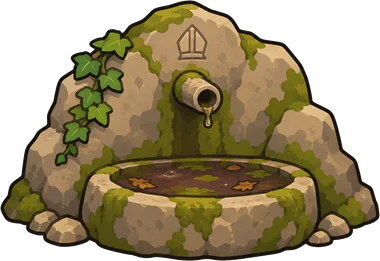
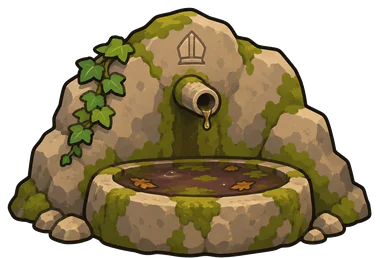
Font del Bisbe: transició amb l'efecte d'ones de la Bassadòria, aigua neta animada (gotes, anells, esquitxos i reflexos); mateix retall als dos gràfics
Claude-Session: https://claude.ai/code/session_01Lxfm6YSSDLi4GYSBQ6SeDm

diff --git a/js/zones/nord.js b/js/zones/nord.js
@@ -1369,6 +1369,7 @@ class ZonaBosc extends ZonaBase {
         this.terra('pedra', 780, 520, 260, 230);         // clariana de pedra de la font
 
         // Font del Bisbe (missió de la font)
+        this.aiguaFont = null; this.transFont = false;          // (l'escena es reaprofita: res de la visita anterior)
         const fontSJ = this.fontImg = this.posar(Estat.flag('fontNeta') ? 'font_sj_neta' : 'font_sj', 910, 610, { col: { w: 150, h: 50 } });
         const puntFont = this.interactiu(910, 625, RADI_GRAN * 1.5, DIALEGS.fontSJ, { altura: 170 });
         this.brilloImatge(fontSJ, { punt: puntFont, actiu: () => !Estat.flag('fontNeta') });          // la font brilla fins que l'aigua torna a ser clara
@@ -1450,13 +1451,80 @@ class ZonaBosc extends ZonaBase {
             this.boires = [];
             if (this.llumLila) this.tweens.add({ targets: this.llumLila, alpha: 0, duration: 3500 });
         }
-        // I l'aigua de la font brilla
-        if (Estat.flag('fontNeta') && this.fontImg && this.fontImg.texture.key !== 'font_sj_neta') this.fontImg.setTexture('font_sj_neta');       // aigua clara: canvia el dibuix de la font
-        if (Estat.flag('fontNeta') && !this.fontBrilla) {
-            this.fontBrilla = this.add.particles(910, 565, 'espurna', {
-                x: { min: -45, max: 45 }, y: { min: -10, max: 10 }, speedY: { min: -22, max: -6 }, lifespan: 1500,
-                scale: { start: 0.3, end: 0 }, alpha: { start: 0.9, end: 0 }, tint: [0xbfe8ff, 0xffffff], frequency: 280, blendMode: 'ADD'
-            }).setDepth(700);
+        // La font neta: el dibuix canvia (per si el flag ja hi era) i l'aigua raja i s'esquitxa
+        if (Estat.flag('fontNeta') && !this.transFont) {
+            if (this.fontImg && this.fontImg.texture.key !== 'font_sj_neta') this.fontImg.setTexture('font_sj_neta');
+            this.animarAiguaFont();
         }
+    }
+
+    // L'aigua neta de la font, viva: gotes que baixen pel fil de la canella, anells que s'obren on cau, esquitxos i petits reflexos sobre l'aigua de la pica.
+    // (Les coordenades són les del dibuix font_sj_neta: la boca de la canella i el punt on cau el fil.)
+    animarAiguaFont() {
+        if (this.aiguaFont || !this.fontImg) return;
+        const XB = 918, YB = 531, XA = 920, YA = 569, dep = this.fontImg.depth + 1;
+        const objs = this.aiguaFont = [];
+        for (let k = 0; k < 4; k++) {                          // gotes: franges clares que corren pel fil d'aigua
+            const g = this.add.rectangle(XB, YB, 2.6, 8, 0xeaffff, 0.85).setDepth(dep).setBlendMode('ADD');
+            this.tweens.add({ targets: g, x: { from: XB, to: XA }, y: { from: YB + 2, to: YA - 3 }, alpha: { from: 0.9, to: 0.25 }, scaleY: { from: 0.8, to: 1.7 }, duration: 520, repeat: -1, delay: k * 130, ease: 'Quad.easeIn' });
+            objs.push(g);
+        }
+        for (let k = 0; k < 3; k++) {                          // anells a l'aigua, un rere l'altre
+            const r = this.add.ellipse(XA, YA + 1, 8, 3).setStrokeStyle(1.2, 0xffffff, 0.85).setDepth(dep).setBlendMode('ADD');
+            this.tweens.add({ targets: r, scale: { from: 0.6, to: 6 }, alpha: { from: 0.85, to: 0 }, duration: 1500, repeat: -1, delay: k * 500, ease: 'Sine.easeOut' });
+            objs.push(r);
+        }
+        objs.push(this.add.particles(XA, YA, 'espurna', {      // esquitxos que salten on cau el fil
+            x: { min: -3, max: 3 }, speedX: { min: -28, max: 28 }, speedY: { min: -62, max: -26 }, gravityY: 190, lifespan: 520,
+            scale: { start: 0.2, end: 0 }, alpha: { start: 0.95, end: 0 }, tint: [0xbfe8ff, 0xffffff], frequency: 110, blendMode: 'ADD'
+        }).setDepth(dep));
+        objs.push(this.add.particles(XA, YA + 3, 'espurna', {  // reflexos de llum que brillen a la superfície
+            emitZone: { type: 'random', source: new Phaser.Geom.Ellipse(0, 0, 76, 16) },
+            speed: 0, lifespan: 900, scale: { start: 0.14, end: 0 }, alpha: { start: 0.85, end: 0 }, tint: [0xffffff, 0xcdf3ff], frequency: 420, blendMode: 'ADD'
+        }).setDepth(dep));
+    }
+
+    // La font es neteja amb el mateix efecte que la Bassadòria: l'ona d'escaneig (deformació sinusoïdal per línies) mentre el dibuix de l'aigua bruta es dissol en el de l'aigua neta,
+    // amb espurnes místiques sobre la pica. En acabar, la font ja és la neta (i comença a rajar). fet() quan s'acaba.
+    transicioFont(fet) {
+        const img = this.fontImg, tB = this.textures.get('font_sj'), tN = this.textures.get('font_sj_neta');
+        if (!img || !tB || !tN || this.transFont) { if (img && tN) img.setTexture('font_sj_neta'); if (fet) fet(); return; }
+        this.transFont = true;
+        const sB = tB.getSourceImage(), sN = tN.getSourceImage(), esc = img.scaleX;
+        const MARGE = 24, CW = sN.width + MARGE * 2, CH = sN.height;
+        const canvas = document.createElement('canvas'); canvas.width = CW; canvas.height = CH;
+        const cx = canvas.getContext('2d'), clau = 'transicio_font_' + Date.now();
+        this.textures.addCanvas(clau, canvas);
+        const spr = this.add.image(img.x, img.y, clau).setOrigin(0.5, 1).setScale(esc).setDepth(img.depth + 0.1);
+        img.setVisible(false);
+        const espurnes = this.add.particles(img.x + 2, 568, 'espurna', {
+            emitZone: { type: 'random', source: new Phaser.Geom.Ellipse(0, 0, 80, 18) },
+            speed: { min: 12, max: 50 }, scale: { start: 0.26, end: 0.04 }, alpha: { start: 0.9, end: 0 }, tint: [0xffea88, 0x7ae8ff, 0xffffff], lifespan: 1000, frequency: 45, blendMode: 'ADD'
+        }).setDepth(img.depth + 0.5);
+        this.time.delayedCall(2300, () => { espurnes.stop(); this.time.delayedCall(1200, () => espurnes.destroy()); });
+        const anim = { prog: 0, fase: 0 }, pas = 2;
+        this.tweens.add({
+            targets: anim, prog: 1, fase: Math.PI * 7, duration: 2600, ease: 'Linear',
+            onUpdate: () => {
+                cx.clearRect(0, 0, CW, CH);
+                const k = anim.prog, amp = Math.sin(k * Math.PI) * 11, freq = 0.052;
+                const aB = Math.max(0, Math.min(1, (0.6 - k) / 0.35)), aN = Math.max(0, Math.min(1, (k - 0.35) / 0.35));
+                for (let y = 0; y < CH; y += pas) {
+                    const fix = Math.min(1, Math.max(0, (CH - 6 - y) / 40));          // la base toca a terra i queda fixa
+                    const dx = MARGE + (Math.sin(y * freq + anim.fase) * amp + Math.cos(y * freq * 0.45 - anim.fase * 0.8) * amp * 0.35) * fix;
+                    if (aB > 0) { cx.globalAlpha = aB; cx.drawImage(sB, 0, y, sB.width, pas, dx, y, sB.width, pas); }
+                    if (aN > 0) { cx.globalAlpha = aN; cx.drawImage(sN, 0, y, sN.width, pas, dx, y, sN.width, pas); }
+                }
+                cx.globalAlpha = 1;
+                this.textures.get(clau).refresh();
+            },
+            onComplete: () => {
+                img.setTexture('font_sj_neta').setVisible(true);
+                spr.destroy(); this.textures.remove(clau);
+                this.transFont = false;
+                this.animarAiguaFont();
+                if (fet) fet();
+            }
+        });
     }
 }

diff --git a/eines/convertir_font_sj.js b/eines/convertir_font_sj.js
@@ -1,0 +1,32 @@
+/**
+ * Converteix les dues Fonts del Bisbe (art/objectes/font_sj.png i font_sj_neta.png) a WebP amb el MATEIX retall i la mateixa escala,
+ * perquè en canviar de l'una a l'altra (transicioFont, js/zones/nord.js) la roca i la pica no es moguin ni canviïn de mida.
+ *   node eines/convertir_font_sj.js     (cal "sharp")
+ */
+const fs = require('fs'), path = require('path'), vm = require('vm');
+const sharp = require('sharp');
+const ARREL = path.join(__dirname, '..');
+const font = fs.readFileSync(path.join(ARREL, 'js/assets.js'), 'utf8');
+const ctx = {};
+vm.runInNewContext(font.slice(font.indexOf('function treureFonsBlanc'), font.indexOf('// ---------- Dibuixos provisionals')) + '; this.f = treureFonsBlanc;', ctx);
+
+(async () => {
+    const dades = [];
+    for (const nom of ['font_sj', 'font_sj_neta']) {
+        const { data, info } = await sharp(path.join(ARREL, 'art/objectes', nom + '.png')).ensureAlpha().raw().toBuffer({ resolveWithObject: true });
+        ctx.f(data, info.width, info.height);
+        let x0 = info.width, y0 = info.height, x1 = -1, y1 = -1;
+        for (let y = 0; y < info.height; y++) for (let x = 0; x < info.width; x++) if (data[(y * info.width + x) * 4 + 3] > 24) { x0 = Math.min(x0, x); x1 = Math.max(x1, x); y0 = Math.min(y0, y); y1 = Math.max(y1, y); }
+        dades.push({ nom, data, info, x0, y0, x1, y1 });
+    }
+    // Caixa comuna (unió dels dos contorns), amb 2 px de marge
+    const X0 = Math.min(...dades.map(d => d.x0)) - 2, Y0 = Math.min(...dades.map(d => d.y0)) - 2;
+    const X1 = Math.max(...dades.map(d => d.x1)) + 2, Y1 = Math.max(...dades.map(d => d.y1)) + 2;
+    const w = X1 - X0 + 1, h = Y1 - Y0 + 1, AMPLE = 190 * 2;
+    console.log('caixa comuna', X0, Y0, w, h, 'escala', AMPLE / w);
+    for (const d of dades) {
+        const r = await sharp(d.data, { raw: { width: d.info.width, height: d.info.height, channels: 4 } }).extract({ left: X0, top: Y0, width: w, height: h })
+            .resize({ width: AMPLE, kernel: 'lanczos3' }).webp({ quality: 85, alphaQuality: 100, effort: 6, smartSubsample: true }).toFile(path.join(ARREL, 'assets/objectes', d.nom + '.webp'));
+        console.log(d.nom, r.width + 'x' + r.height);
+    }
+})();

diff --git a/js/dialegs.js b/js/dialegs.js
@@ -774,7 +774,7 @@ const DIALEGS = {
         if (herbes === 3) {
             return {
                 pagines: [
-                    { fer: (z, fet) => z.seq([c => z.deixar(c, 'herba_sj'), c => z.deixar(c, 'rialla'), c => z.deixar(c, null, 0xffd060)], fet) },
+                    { fer: (z, fet) => z.seq([c => z.deixar(c, 'herba_sj'), c => z.deixar(c, 'rialla'), c => z.deixar(c, null, 0xffd060), c => z.transicioFont ? z.transicioFont(c) : c()], fet) },
                     { qui: 'Ineu', text: 'Ha funcionat! L\'aigua de la pica torna a ser clara com el vidre.' },
                     { avis: 'Has obtingut l\'AIGUA DE LA FONT DEL BISBE.', obj: 'aigua_sj' }
                 ],
